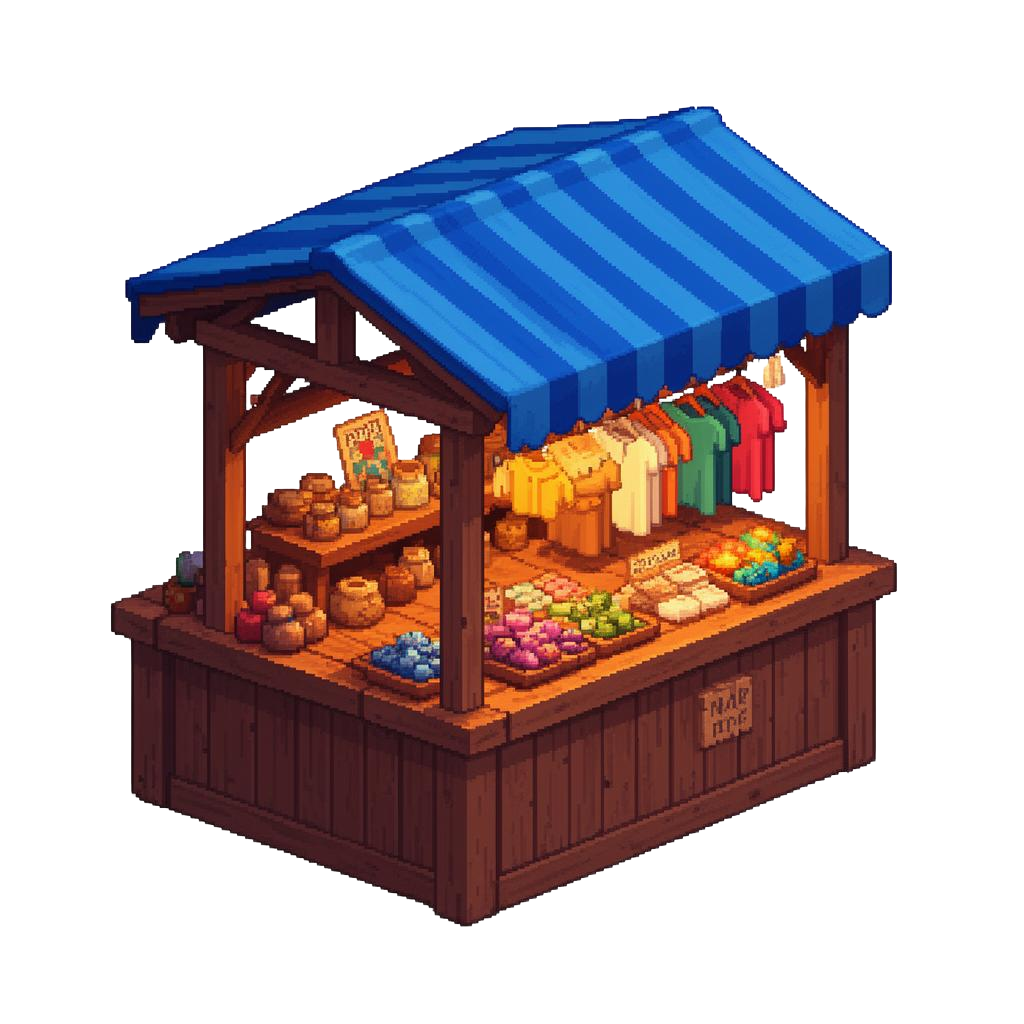
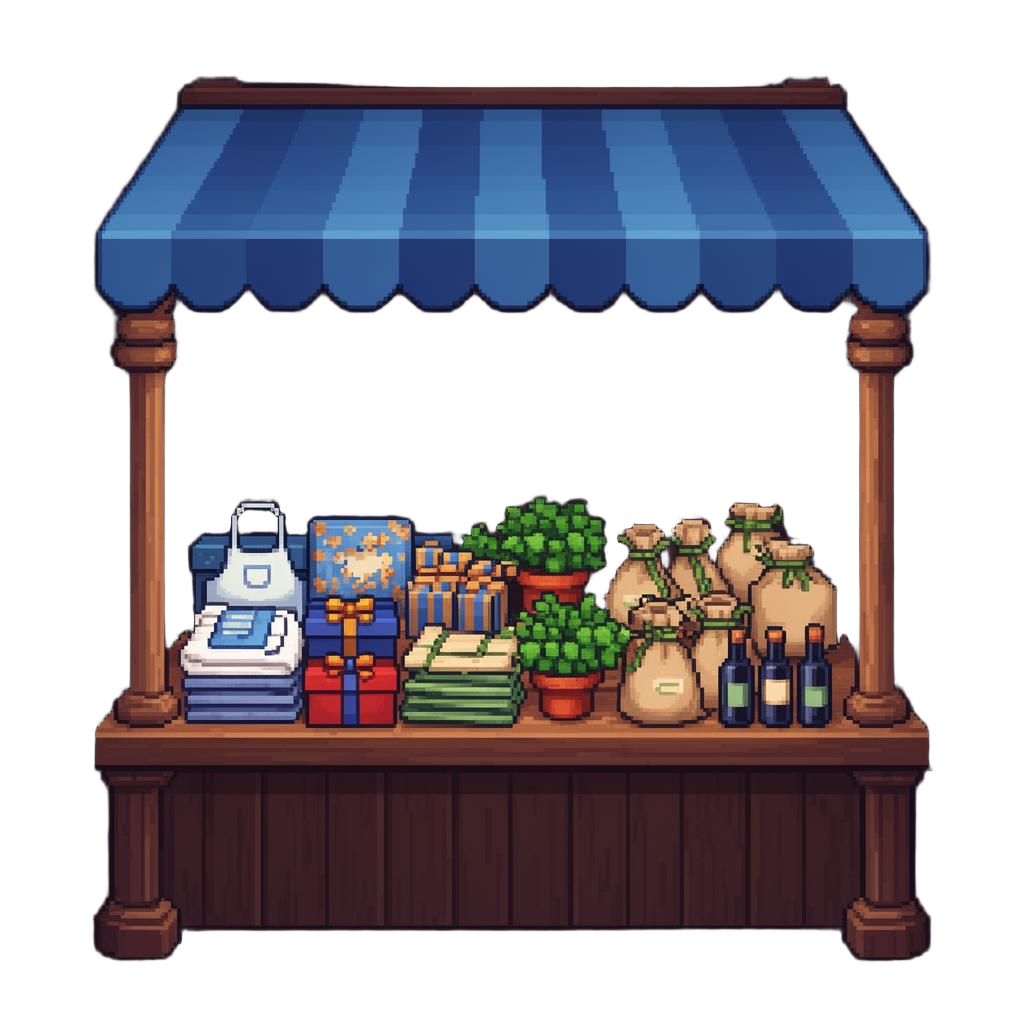
refactor: refactored the responsiveness

diff --git a/src/components/employee/mercado/mercado-layout-client.tsx b/src/components/employee/mercado/mercado-layout-client.tsx
@@ -1,7 +1,6 @@
 'use client';
 
-import { useMemo, useState, useEffect } from 'react';
-import Image from 'next/image';
+import { useMemo, useState } from 'react';
 import dynamic from 'next/dynamic';
 import { ChevronLeft, ChevronRight } from 'lucide-react';
 import mercadoBackground from '../../../../public/mercado/mercado-bg.png';
@@ -31,27 +30,6 @@ interface CarouselArrowButtonProps {
   onClick: () => void;
 }
 
-function useIsTabletOrLarger() {
-  const [isTabletOrLarger, setIsTabletOrLarger] = useState(false);
-
-  useEffect(() => {
-    // Watch viewport width for respsiveness
-    const mediaQuery = window.matchMedia('(min-width: 768px)');
-    const updateMatch = (event: MediaQueryListEvent) => {
-      setIsTabletOrLarger(event.matches);
-    };
-
-    setIsTabletOrLarger(mediaQuery.matches);
-    mediaQuery.addEventListener('change', updateMatch);
-
-    return () => {
-      mediaQuery.removeEventListener('change', updateMatch);
-    };
-  }, []);
-
-  return isTabletOrLarger;
-}
-
 function CarouselArrowButton({ direction, onClick }: CarouselArrowButtonProps) {
   const ArrowIcon = direction === 'left' ? ChevronLeft : ChevronRight;
   const altText = direction === 'left' ? 'Previous stall' : 'Next stall';
@@ -60,11 +38,11 @@ function CarouselArrowButton({ direction, onClick }: CarouselArrowButtonProps) {
     <button
       type="button"
       onClick={onClick}
-      className="relative flex h-8 w-8 sm:h-9 sm:w-9 md:h-10 md:w-10 lg:h-12 lg:w-12 shrink-0 items-center justify-center rounded-full border-2 border-[#9b7a56] bg-[#f6eddd] text-[#4b3522] shadow-[0_2px_6px_rgba(75,53,34,0.18)] transition-all duration-200 hover:scale-105 active:scale-95"
+      className="relative flex h-9 w-9 max-[380px]:h-10 max-[380px]:w-10 sm:h-10 sm:w-10 md:h-10 md:w-10 lg:h-12 lg:w-12 max-[640px]:p-2 shrink-0 items-center justify-center rounded-full border-2 border-[#9b7a56] bg-[#f6eddd] text-[#4b3522] shadow-[0_2px_6px_rgba(75,53,34,0.18)] transition-all duration-200 hover:scale-105 active:scale-95"
       aria-label={altText}
     >
       <ArrowIcon
-        className="h-4 w-4 sm:h-4.5 sm:w-4.5 md:h-5 md:w-5 lg:h-6 lg:w-6"
+        className="h-4 w-4 max-[380px]:h-4.5 max-[380px]:w-4.5 sm:h-4.5 sm:w-4.5 md:h-5 md:w-5 lg:h-6 lg:w-6"
         strokeWidth={2.3}
       />
     </button>
@@ -79,7 +57,6 @@ function MercadoLayoutContent({ children }: MercadoLayoutClientProps) {
   const { data: monthlyRewards = [] } = useGetAvailableRewardsByInterval('monthly');
   const { data: yearlyRewards = [] } = useGetAvailableRewardsByInterval('yearly');
   const [carouselIndex, setCarouselIndex] = useState(0);
-  const isTabletOrLarger = useIsTabletOrLarger();
 
   // Build quick counts for each interval so the stall-state helper can decide availability.
   const availableCounts = useMemo(
@@ -120,34 +97,36 @@ function MercadoLayoutContent({ children }: MercadoLayoutClientProps) {
   const activeCarouselStall = INTERVAL_STALLS[carouselIndex];
 
   return (
-    <div
-      className="relative h-dvh min-h-dvh max-h-dvh w-full overflow-hidden overscroll-none bg-[#9b642f] bg-cover bg-bottom bg-no-repeat"
-      style={{ backgroundImage: `url(${MERCADO_BACKGROUND_IMAGE})` }}
-    >
+    <div className="relative isolate flex min-h-svh w-full flex-col overflow-hidden overscroll-none md:min-h-dvh">
       {/* Shows loading feedback for page-level navigation transitions. */}
       <NavLoadingState />
-      <Image
-        src={MERCADO_BACKGROUND_IMAGE}
-        alt="Mercado Background"
-        fill
-        className="object-cover object-center sm:object-bottom saturate-[0.82] brightness-[0.84] contrast-[0.96]"
-        sizes="100vw"
-        priority
-        quality={100}
+      <div
+        className="fixed inset-0 z-0 bg-cover bg-center bg-no-repeat lg:bg-cover lg:bg-bottom"
+        style={{ backgroundImage: `url(${MERCADO_BACKGROUND_IMAGE})` }}
+        aria-hidden="true"
       />
 
-      {/* Muted overlay to make foreground stalls more readable on all screen sizes. */}
-      <div className="pointer-events-none absolute inset-0 z-1 bg-linear-to-b from-[#2a1d12]/8 via-[#2a1d12]/10 to-[#2a1d12]/14" />
+      <div
+        className="pointer-events-none fixed inset-0 z-1 bg-black/14 md:bg-black/16 lg:bg-black/18"
+        aria-hidden="true"
+      />
 
       {/* Top overlay HUD (profile/points/notifications) stays above the mercado background. */}
-      <div className="pointer-events-none absolute top-0 left-0 right-0 z-40 w-full px-2 sm:px-3 md:px-4 lg:px-6 pt-2 sm:pt-2.5 md:pt-4 lg:pt-6">
+      <div
+        className="pointer-events-none absolute top-0 left-0 right-0 z-40 w-full"
+        style={{
+          paddingTop: 'max(0.5rem, env(safe-area-inset-top))',
+          paddingLeft: 'max(0.5rem, env(safe-area-inset-left))',
+          paddingRight: 'max(0.5rem, env(safe-area-inset-right))',
+        }}
+      >
         <div className="pointer-events-auto flex w-full flex-col gap-1.5 sm:gap-2 md:gap-3 lg:gap-4">
           <HeaderHUD className="rounded-lg" hideNotificationsOnMercado={false} />
         </div>
       </div>
 
-      <div className="relative z-10 flex h-full w-full items-end justify-center overflow-hidden px-2 pb-[max(env(safe-area-inset-bottom),0.5rem)] sm:px-3 sm:pb-2 md:px-4 md:pb-3 lg:px-6 lg:pb-4 xl:px-8 xl:pb-6">
-        <div className="flex h-full w-full max-w-7xl items-end justify-center">
+      <main className="relative z-10 mx-auto flex w-full flex-1 min-w-0 items-end justify-center overflow-hidden px-2 pb-[max(env(safe-area-inset-bottom),0.5rem)] sm:px-3 sm:pb-2 md:px-4 md:pb-3 lg:px-4 lg:pb-4 xl:px-5 xl:pb-6">
+        <div className="flex w-full flex-1 min-w-0 max-w-295 items-end justify-center">
           {/* Desktop: 3 stalls grid (lg+) */}
           <div className="hidden items-end justify-center gap-6 sm:gap-8 md:gap-10 lg:flex lg:gap-12 xl:gap-16">
             {INTERVAL_STALLS.map((stall) => (
@@ -161,19 +140,27 @@ function MercadoLayoutContent({ children }: MercadoLayoutClientProps) {
             ))}
           </div>
 
-          {/* Mobile/tablet: single-stall carousel controlled by left/right arrows. */}
-          <div className="flex w-full items-center justify-center gap-1.5 pb-1 sm:gap-2 sm:pb-1.5 md:gap-2.5 md:pb-2 lg:hidden">
-            <CarouselArrowButton direction="left" onClick={handlePreviousStall} />
-            <MercadoStallButton
-              stall={activeCarouselStall}
-              isClosed={closedByInterval[activeCarouselStall.interval]}
-              variant={isTabletOrLarger ? 'desktop' : 'mobile'}
-              onSelect={handleStallClick}
-            />
-            <CarouselArrowButton direction="right" onClick={handleNextStall} />
+          {/* Mobile/tablet: single-stall carousel with arrows anchored near stall edges. */}
+          <div className="relative flex w-full min-w-0 max-w-lg items-center justify-center pb-0 sm:max-w-xl sm:pb-0.5 md:max-w-160 md:pb-1 lg:hidden">
+            <div className="relative inline-flex w-auto translate-y-8 items-center justify-center sm:translate-y-8 md:translate-y-7">
+              <MercadoStallButton
+                stall={activeCarouselStall}
+                isClosed={closedByInterval[activeCarouselStall.interval]}
+                variant="mobile"
+                onSelect={handleStallClick}
+              />
+
+              <div className="absolute top-[64%] left-0 z-20 -translate-x-7 -translate-y-1/2 max-[380px]:-translate-x-6 sm:top-[64%] sm:-translate-x-7 md:top-[62%] md:-translate-x-6">
+                <CarouselArrowButton direction="left" onClick={handlePreviousStall} />
+              </div>
+
+              <div className="absolute top-[64%] right-0 z-20 translate-x-7 -translate-y-1/2 max-[380px]:translate-x-6 sm:top-[64%] sm:translate-x-7 md:top-[62%] md:translate-x-6">
+                <CarouselArrowButton direction="right" onClick={handleNextStall} />
+              </div>
+            </div>
           </div>
         </div>
-      </div>
+      </main>
 
       {/* Child content contains interval modal content rendered by the page component. */}
       <div className="relative z-50">{children}</div>

diff --git a/src/components/employee/mercado/mercado-stall-button.tsx b/src/components/employee/mercado/mercado-stall-button.tsx
@@ -15,29 +15,40 @@ interface MercadoStallButtonProps {
 
 const STALL_VARIANT_CLASS = {
   desktop:
-    'h-[clamp(220px,45vw,380px)] w-[clamp(200px,40vw,320px)] md:h-auto md:w-auto lg:h-96 lg:w-80 xl:h-[420px] xl:w-96',
-  mobile: 'h-[268px] w-[268px] sm:h-[296px] sm:w-[296px] md:h-80 md:w-64',
+    'h-[clamp(255px,38vw,430px)] w-[clamp(235px,34vw,380px)] md:h-auto md:w-auto lg:h-[22.5rem] lg:w-[18.5rem] xl:h-[28rem] xl:w-[23.5rem]',
+  mobile:
+    'h-[clamp(300px,82vw,430px)] w-[clamp(280px,76vw,380px)] max-w-[calc(100vw-2.25rem)] max-[380px]:h-[min(82vw,340px)] max-[380px]:w-[min(82vw,340px)] max-[380px]:max-w-[calc(100vw-2.75rem)] sm:h-[clamp(320px,74vw,430px)] sm:w-[clamp(300px,68vw,380px)] sm:max-w-[calc(100vw-3rem)] md:h-[clamp(320px,62vw,430px)] md:w-[clamp(300px,56vw,380px)] md:max-w-[calc(100vw-3.5rem)]',
 } as const;
 
 const CLOSED_BADGE_CLASS = {
   desktop:
     'rounded-md border-2 border-[#47331F] bg-[#B8473E] px-4 sm:px-5 md:px-6 lg:px-6 py-2 text-[clamp(0.8rem,2vw,1.1rem)] font-bold text-[#FFF7E8] shadow-[4px_4px_0px_rgba(71,51,31,0.6)] rotate-[-8deg]',
   mobile:
-    'rounded-md border-2 border-[#47331F] bg-[#B8473E] px-3.5 sm:px-4 md:px-5 py-2 sm:py-2.5 text-[clamp(0.85rem,2.2vw,1.05rem)] font-bold text-[#FFF7E8] shadow-[4px_4px_0px_rgba(71,51,31,0.6)] rotate-[-8deg]',
+    'rounded-md border-2 border-[#47331F] bg-[#B8473E] px-4 sm:px-4.5 md:px-5 py-2 text-[clamp(0.82rem,2vw,1.05rem)] font-bold text-[#FFF7E8] shadow-[4px_4px_0px_rgba(71,51,31,0.6)] rotate-[-8deg]',
 } as const;
 
 const LABEL_CLASS = {
   desktop:
-    'bg-[#E8DBBF] border-2 border-[#47331F] text-[#47331F] px-4 sm:px-5 md:px-6 lg:px-8 py-2 sm:py-2.5 md:py-3 lg:py-4 rounded-lg shadow-[4px_4px_0px_rgba(71,51,31,0.5)] font-bold text-[clamp(1rem,1.5vw,1.25rem)] whitespace-nowrap transition-transform group-hover:scale-110',
+    'bg-[#E8DBBF] border-2 border-[#47331F] text-[#47331F] px-4 sm:px-5 md:px-6 lg:px-6 py-2 sm:py-2.5 md:py-3 lg:py-3 rounded-lg shadow-[4px_4px_0px_rgba(71,51,31,0.5)] font-bold text-[clamp(0.95rem,1.2vw,1.2rem)] whitespace-nowrap transition-transform group-hover:scale-110',
   mobile:
-    'bg-[#E8DBBF] border-2 border-[#47331F] text-[#47331F] px-3 sm:px-4 md:px-5 py-2 sm:py-2.5 md:py-3 rounded-lg shadow-[4px_4px_0px_rgba(71,51,31,0.5)] text-[clamp(1rem,2.8vw,1.2rem)] font-bold whitespace-nowrap transition-transform group-hover:scale-110',
+    'bg-[#E8DBBF] border-2 border-[#47331F] text-[#47331F] px-4 sm:px-4.5 md:px-5 py-2 sm:py-2.25 md:py-2.5 rounded-lg shadow-[4px_4px_0px_rgba(71,51,31,0.5)] text-[clamp(0.95rem,1.9vw,1.15rem)] font-bold whitespace-nowrap transition-transform group-hover:scale-110',
 } as const;
 
 const DESCRIPTION_CLASS = {
   desktop:
-    'mt-1 max-w-[12rem] text-center text-[clamp(0.7rem,1vw,0.85rem)] leading-tight text-[#47331F]/85 sm:max-w-[13rem] md:max-w-[14rem]',
+    'mt-1 max-w-[11rem] text-center text-[clamp(0.66rem,0.85vw,0.8rem)] leading-tight text-[#47331F]/85 sm:max-w-[12rem] md:max-w-[13rem]',
   mobile:
-    'mt-0.5 sm:mt-1 max-w-[11rem] text-center text-[clamp(0.75rem,2vw,0.85rem)] leading-tight text-[#47331F]/85 font-medium sm:max-w-[12rem]',
+    'mt-1 max-w-[11rem] text-center text-[clamp(0.66rem,1.05vw,0.8rem)] leading-tight text-[#47331F]/85 font-medium sm:max-w-[12rem] md:max-w-[13rem]',
+} as const;
+
+const LABEL_WRAPPER_CLASS = {
+  desktop: 'absolute top-[11%] left-1/2 z-20 -translate-x-1/2',
+  mobile: 'absolute top-[-3%] left-1/2 z-20 -translate-x-1/2 md:top-[6%]',
+} as const;
+
+const STALL_POSITION_CLASS = {
+  desktop: 'lg:-translate-y-10 xl:-translate-y-11',
+  mobile: '',
 } as const;
 
 export function MercadoStallButton({
@@ -52,8 +63,9 @@ export function MercadoStallButton({
       onClick={() => onSelect(stall.interval)}
       disabled={isClosed}
       className={cn(
-        'relative shrink-0 transition-all duration-300 drop-shadow-[0_12px_18px_rgba(20,12,6,0.45)]',
+        'relative shrink-0 transition-all duration-300 drop-shadow-[0_14px_22px_rgba(20,12,6,0.55)]',
         STALL_VARIANT_CLASS[variant],
+        STALL_POSITION_CLASS[variant],
         isClosed ? 'cursor-not-allowed' : 'hover:scale-105 active:scale-95 cursor-pointer group'
       )}
       aria-label={isClosed ? `${stall.label} market is closed` : `View ${stall.label} market`}
@@ -70,11 +82,15 @@ export function MercadoStallButton({
         src={stall.image}
         alt={`${stall.label} market stall`}
         fill
-        className="object-contain pixelated"
+        unoptimized
+        className={cn(
+          'object-contain object-bottom pixelated contrast-110 saturate-110 brightness-105',
+          stall.imageAdjustClassName
+        )}
         sizes={
           variant === 'desktop'
-            ? '(max-width: 768px) 256px, (max-width: 1024px) 304px, 352px'
-            : '(max-width: 640px) 268px, (max-width: 768px) 296px, 320px'
+            ? '(max-width: 768px) 320px, (max-width: 1024px) 380px, 460px'
+            : '(max-width: 640px) 82vw, (max-width: 1024px) 62vw, 430px'
         }
       />
 
@@ -89,7 +105,7 @@ export function MercadoStallButton({
         </div>
       ) : null}
 
-      <div className="absolute top-1 left-1/2 -translate-x-1/2">
+      <div className={LABEL_WRAPPER_CLASS[variant]}>
         <div className={LABEL_CLASS[variant]} style={{ fontFamily: '"Jersey 10", sans-serif' }}>
           <div className="flex flex-col items-center">
             <span>{stall.label}</span>

diff --git a/src/components/employee/modals/monthly-rewards-modal.tsx b/src/components/employee/modals/monthly-rewards-modal.tsx
@@ -32,7 +32,6 @@ interface MonthlyRewardsModalProps {
   open: boolean;
   onOpenChange: (open: boolean) => void;
   interval: RewardInterval | null;
-  onIntervalChange: (interval: RewardInterval) => void;
   rewards: Reward[];
   isLoading?: boolean;
   userPoints: number;
@@ -80,7 +79,6 @@ export function MonthlyRewardsModal({
   open,
   onOpenChange,
   interval,
-  onIntervalChange,
   rewards,
   isLoading = false,
   userPoints,
@@ -166,25 +164,11 @@ export function MonthlyRewardsModal({
           <div className="px-2 sm:px-4 md:px-6 lg:px-8 py-2 sm:py-2.5 md:py-3 bg-[#e3d4bb] border-b border-[#8a6844]/20 flex flex-col gap-2 sm:gap-2.5 md:gap-3">
             {activeView === 'items' && rewards.length > 0 ? (
               <div className="flex flex-wrap items-center gap-1.5 sm:gap-2 md:gap-3 w-full">
-                <Select
-                  value={interval || 'weekly'}
-                  onValueChange={(value: RewardInterval) => onIntervalChange(value)}
-                >
-                  <SelectTrigger className="h-8 sm:h-9 md:h-10 w-28 sm:w-32 md:w-36 text-xs sm:text-sm bg-[#f6eddd] border-[#9b7a56] text-[#4b3522]">
-                    <SelectValue />
-                  </SelectTrigger>
-                  <SelectContent className="bg-[#f6eddd] border-[#9b7a56] text-[#4b3522]">
-                    <SelectItem value="weekly">Weekly</SelectItem>
-                    <SelectItem value="monthly">Monthly</SelectItem>
-                    <SelectItem value="yearly">Yearly</SelectItem>
-                  </SelectContent>
-                </Select>
-
                 <Input
                   value={searchTerm}
                   onChange={(event) => setSearchTerm(event.target.value)}
                   placeholder="Search items..."
-                  className="h-8 sm:h-9 md:h-10 flex-1 min-w-40 sm:min-w-48 md:min-w-56 text-xs sm:text-sm bg-[#f6eddd] border-[#9b7a56] text-[#4b3522] placeholder:text-[#8d7255]"
+                  className="h-8 sm:h-9 md:h-10 flex-1 min-w-48 sm:min-w-56 md:min-w-64 text-xs sm:text-sm bg-[#f6eddd] border-[#9b7a56] text-[#4b3522] placeholder:text-[#8d7255]"
                 />
 
                 <Select
@@ -202,25 +186,11 @@ export function MonthlyRewardsModal({
               </div>
             ) : (
               <div className="flex flex-wrap items-center gap-1.5 sm:gap-2 md:gap-3 w-full">
-                <Select
-                  value={interval || 'weekly'}
-                  onValueChange={(value: RewardInterval) => onIntervalChange(value)}
-                >
-                  <SelectTrigger className="h-8 sm:h-9 md:h-10 w-28 sm:w-32 md:w-36 text-xs sm:text-sm bg-[#f6eddd] border-[#9b7a56] text-[#4b3522]">
-                    <SelectValue />
-                  </SelectTrigger>
-                  <SelectContent className="bg-[#f6eddd] border-[#9b7a56] text-[#4b3522]">
-                    <SelectItem value="weekly">Weekly</SelectItem>
-                    <SelectItem value="monthly">Monthly</SelectItem>
-                    <SelectItem value="yearly">Yearly</SelectItem>
-                  </SelectContent>
-                </Select>
-
                 <Input
                   value={pendingSearchTerm}
                   onChange={(event) => setPendingSearchTerm(event.target.value)}
                   placeholder="Search pending..."
-                  className="h-8 sm:h-9 md:h-10 flex-1 min-w-40 sm:min-w-48 md:min-w-56 text-xs sm:text-sm bg-[#f6eddd] border-[#9b7a56] text-[#4b3522] placeholder:text-[#8d7255]"
+                  className="h-8 sm:h-9 md:h-10 flex-1 min-w-48 sm:min-w-56 md:min-w-64 text-xs sm:text-sm bg-[#f6eddd] border-[#9b7a56] text-[#4b3522] placeholder:text-[#8d7255]"
                 />
                 <p className="text-xs sm:text-sm text-[#6b5038] font-medium w-full sm:w-auto mt-0.5 sm:mt-0">
                   Pending: {filteredPendingRequests.length}

diff --git a/src/components/employee/mercado/mercado-stall-config.ts b/src/components/employee/mercado/mercado-stall-config.ts
@@ -5,6 +5,7 @@ export interface IntervalStall {
   label: string;
   description: string;
   image: string;
+  imageAdjustClassName?: string;
 }
 
 export const INTERVAL_STALLS: IntervalStall[] = [
@@ -12,19 +13,23 @@ export const INTERVAL_STALLS: IntervalStall[] = [
     interval: 'weekly',
     label: 'Weekly',
     description: 'Available items to redeem for this week',
-    image: '/mercado/stall-weekly.png',
+    image: '/mercado/weeklystall.png',
+    // Weekly art has slightly more transparent padding; scale it up a bit for visual parity.
+    imageAdjustClassName: 'scale-105',
   },
   {
     interval: 'monthly',
     label: 'Monthly',
     description: 'Available items to redeem for this month',
-    image: '/mercado/stall-monthly.png',
+    image: '/mercado/monthlystall.png',
+    imageAdjustClassName: 'scale-100',
   },
   {
     interval: 'yearly',
     label: 'Yearly',
     description: 'Available items to redeem for this year',
-    image: '/mercado/stall-yearly.png',
+    image: '/mercado/yearlystall.png',
+    imageAdjustClassName: 'scale-100',
   },
 ];
 

diff --git a/src/components/employee/mercado/mercado-page-client.tsx b/src/components/employee/mercado/mercado-page-client.tsx
@@ -52,13 +52,12 @@ export function MercadoPageClient() {
   }, [pendingRequests]);
 
   return (
-    <MonthlyRewardsModal 
+    <MonthlyRewardsModal
       // Modal opens only when interval is selected and still valid/open.
       open={!!selectedInterval && !isSelectedIntervalClosed}
       // Closing modal clears selected interval so layout returns to neutral state.
       onOpenChange={(open) => !open && setSelectedInterval(null)}
       interval={selectedInterval}
-      onIntervalChange={setSelectedInterval}
       rewards={intervalRewards}
       isLoading={intervalRewardsLoading}
       userPoints={userPoints}

diff --git a/src/app/employee/mercado/layout.tsx b/src/app/employee/mercado/layout.tsx
@@ -4,5 +4,9 @@ interface MercadoLayoutProps {
   children: React.ReactNode;
 }
 export default function MercadoLayout({ children }: MercadoLayoutProps) {
-  return <MercadoLayoutClient>{children}</MercadoLayoutClient>;
+  return (
+    <div className="relative h-svh min-h-svh w-full overflow-hidden md:h-dvh md:min-h-dvh">
+      <MercadoLayoutClient>{children}</MercadoLayoutClient>
+    </div>
+  );
 }
